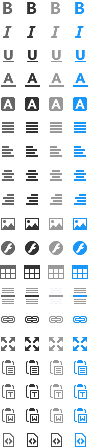
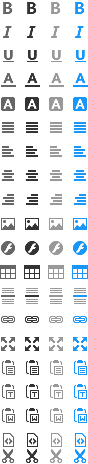
feature: cut menu

diff --git a/src/xeditor/config.js b/src/xeditor/config.js
@@ -27,7 +27,8 @@ export default {
     'table', // 表格
     'underline', // 下划线
     'undo', // 撤销
-    'video', // 插入视频
+    'video', // 插入视频 剪切
+    'cut', // 剪切
   ],
   lang: {
     backcolor: '背景颜色',
@@ -56,6 +57,7 @@ export default {
     underline: '下划线',
     undo: '撤销',
     video: '插入视频',
+    cut: '剪切',
   },
   image: {
     type: 'ajax', // 上传图片显示的类型, base64, ajax

diff --git a/src/assets/styles/icons.scss b/src/assets/styles/icons.scss
@@ -406,4 +406,24 @@
       background-position: -48px -240px;
     }
   }
+  // 剪切
+  &-cut {
+    background-position: 0 -448px;
+
+    &:hover {
+      background-position: -24px -448px;
+    }
+
+    &-active,
+    &-active:hover,
+    &:active {
+      background-position: -72px -448px;
+    }
+
+    &-disable,
+    &-disable:hover,
+    &-disable:active {
+      background-position: -48px -448px;
+    }
+  }
 }

diff --git a/src/xeditor/menus/cut.js b/src/xeditor/menus/cut.js
@@ -1,0 +1,21 @@
+import Base from './base';
+/**
+* XMenuCut 对象
+* @example
+* new XMenuCut(editor);
+*/
+class XMenuCut extends Base {
+  /**
+   * 构造函数
+   *
+   * @param {Object} editor 编辑器的对象
+   */
+  constructor(editor) {
+    super(editor, 'cut', true);
+  }
+}
+/**
+ * XMenuCut 模块.
+ * @module XMenuCut
+ */
+export default XMenuCut;

diff --git a/src/xeditor/menus/list.js b/src/xeditor/menus/list.js
@@ -16,6 +16,7 @@ import forecolor from './forecolor';
 import video from './video';
 import table from './table';
 import link from './link';
+import cut from './cut';
 
 const list = {};
 
@@ -37,5 +38,6 @@ list.forecolor = forecolor;
 list.video = video;
 list.table = table;
 list.link = link;
+list.cut = cut;
 
 export default list;

diff --git a/src/xeditor/editor.js b/src/xeditor/editor.js
@@ -25,7 +25,8 @@ const XEditor = class {
     this.uid = editorId++;
     this.$editor = $(selector);
     this.cfg = config;
-    this.code = false;
+    this.code = false; // 源代码
+    this.handle = false; // 复制|剪切
     // 获取之前的内容
     this.childrens = this.getChilds();
   }

diff --git a/index.html b/index.html
@@ -27,7 +27,8 @@
         'forecolor',
         'video',
         'table',
-        'link'
+        'link',
+        'cut'
       ]
     });
     xEditor.create();
